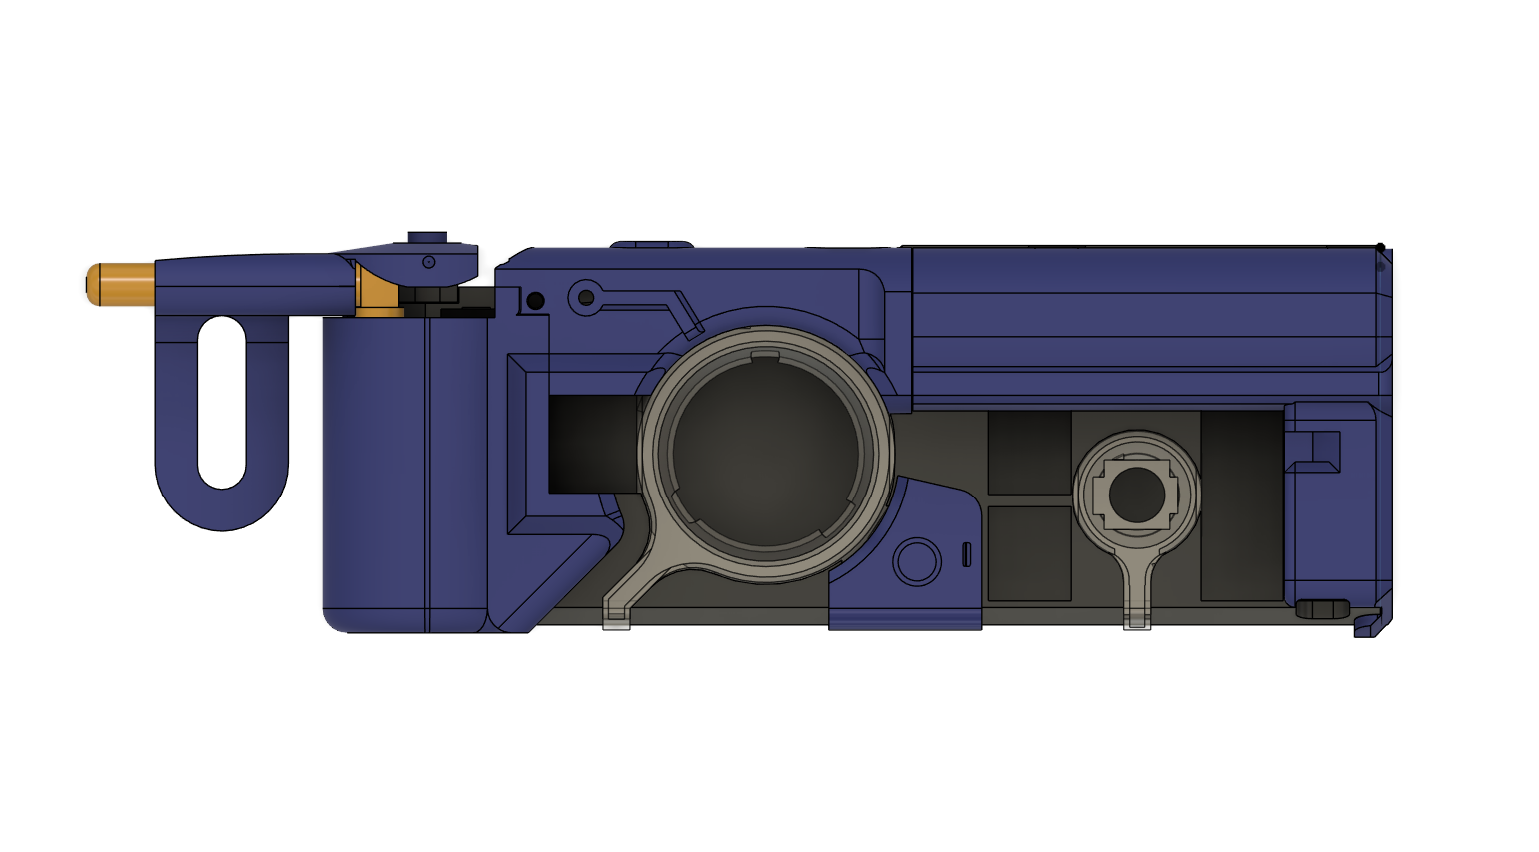
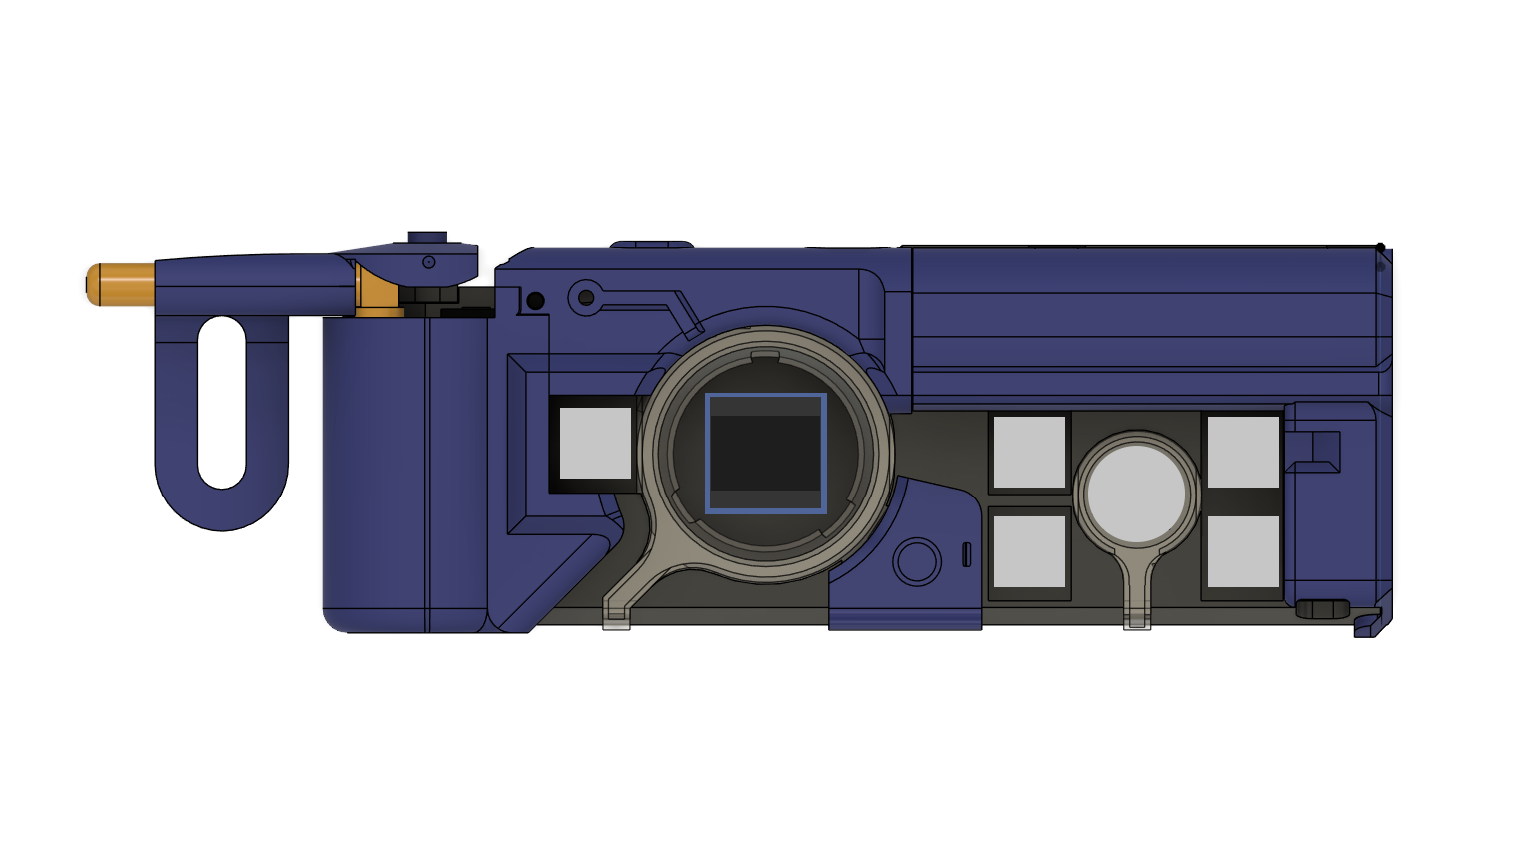
V2 beacon done

Changed region(s): [[0.6238, 0.4883, 0.8421, 0.7019], [0.3431, 0.4577, 0.5614, 0.6103]]

diff --git a/projects/beacon_V2.html b/projects/beacon_V2.html
@@ -85,15 +85,18 @@
 							<h2>Background</h2>
 						</header>
 						<div class="content">
-							<p> Camping, hiking, and other outdoor events often take place in areas with weak cell signal. Explorers could benefit from a <strong>communication device</strong> that uses an independent channel to operate without external infrastructure. The device should enable <strong>peer-to-peer communication</strong>, wayfinding, and emergency messaging. In addition, users who receive a message should be able to navigate to the sender, allowing people to find eachother in the wilderness.</p>
-							<span class="image main"><img src="images/beacon/V1_designoverview.png" alt="" /></span>
+							<p> Last year, I built and user tested an off-grid communicator for outdoor situations without cell service. Overall, the tests of the device looked promising. However, the test also identified some areas for improvement. </p>
+							<p>It is time to design <strong>Version 2</strong> of the Celestial Navigator.</p>
+							<p> <small> (Hint: click on the thumbnails to view the full image) </small>  </p>
+
+							<span class="image main"><img src="images/beacon/CAD_beacon_V2_overview.png" alt="" /></span>
 						</div>
 					</section>
 
 				<!-- Section first steps-->
 					<section>
 						<header>
-							<h2>Hardware Design</h2>
+							<h2>Hardware Design Changes</h2>
 						</header>
 						<div class="content">
 							<p>The design of this off-grid communicator involved balancing factors across <strong>several disciplines of engineering</strong>. The 3D printed case needed to be robust and easily manufacturable. The electronic hardware required a custom PCB to connect from the myriad of IO devices, in a small and portable form-factor. The industrial design should be intuitive for new users, and should't require much explaining or manual-reading.   </p>
@@ -102,40 +105,40 @@
 								<section>
 									<header>
 										<h3>Electronics Design</h3>
-										<p class="gold"> The electrical hardware design comprises a mainboard that connects breakout boards, switches, and indicators to an Espressif ESP-32 microcontroller. The board also includes a battery charger and a DC-DC converter.</p>
+										<p class="gold"> The electrical hardware design has much in common with Version 1. The biggest changes include integrating compass, accellerometer, and GPS sensors in the PCB design rather than using external breakout boards. This allows for a thinner, more robust, and more manufacturable design. The soft power switch from Version 1 was also eliminated for simplicity, cost, and ease of use.</p>
 										
-										<p class="gold"> The first schematic contains the ESP 32 and support circuitry. I used a tag-connect TC-2030 for the serial port. The USB C port is only used for charging. As the original ESP32 lacks native USB support, omitting USB serial saves a USB-UART bridge chip, reducing production costs. Finally, a magnetic buzzer provides an indication that a message has been received.</p>
+										<p class="gold"> The first schematic contains the ESP 32 and support circuitry. The second schematic shows the user input components: the switches and knob. Almost nothing about these sheets changed from version 1.</p>
 										
-										<p class="gold"> The second schematic shows the UI components, consisting of 5x Cherry MX mechanical keyswitches, one quadrature encoder, and supporting components. The ENTER button requires a pull-up resistor because the ESP32's IO34 pin lacks a built-in pull-up.</p>
+										<p class="gold"> The third schematic contains the indication LEDs. The main change was the addition of side-firing LEDs for the flashlight. Version 1 had a flashlight, but it wasn't very effective due to using up-firing LEDs with a makeshift reflector.</p>
 
-										<p class="gold"> The third schematic contains the indication LEDs. 30 WS2812B-compatible LEDs provide feedback to the user. Most of these are arranged in a ring around the screen, forming a digital compass. This allows the compass to point in any direction, allowing the user to navigate to the source of a message.</p>
+										<p class="gold"> The fourth schematic sheet contains the sensors and RF components. External breakout boards have been eliminated and all sensors are now integrated on the Navigator's PCB.</p>
 
-										<p class="gold"> The fourth schematic describes the module and sensor connections of the device. These include a magnetometer (compass), a GPS receiver, a 128x32 pixel OLED screen, and a SX-1276-based LoRa modem. </p>
-
-										<p class="gold"> The final schematic contains the power management circuitry. A TI TPS61088-based boost converter steps the 3.7V lithium battery voltage to the 5V required by the WS2812B LEDs. A pair of P-FETs act as an ideal diode to allow the system to swap between 5V USB power and the onboard battery.</p>
+										<p class="gold"> The final schematic contains the power management circuitry. The TI TPS61088-based boost converter is still present. A TI BQ29700-based battery protection circuit is implemented to avoid overdischarging the lithium battery. Version 1 had a soft power button and software-controlled battery management, so it could shut itself down if the battery voltage dropped too low. Since Version 2 eliminates the soft power button for simplicity, a hardware solution for battery protection was needed.</p>
 									</header>
 									<div class="content">
 										<div class="gallery">
-											<a id="dynamicProjectImage" href="images/beacon/Beacon_ESP32.png" class="landscape" ><img src="images/beacon/Beacon_ESP32.png" alt="" /></a>
-											<a id="dynamicProjectImage" href="images/beacon/Beacon_Digital_IO.png" class="landscape" ><img src="images/beacon/Beacon_Digital_IO.png" alt="" /></a>
-											<a id="dynamicProjectImage" href="images/beacon/Beacon_LEDs.png" class="landscape" ><img src="images/beacon/Beacon_LEDs.png" alt="" /></a>
-											<a id="dynamicProjectImage" href="images/beacon/Beacon_Modules.png" class="landscape"><img src="images/beacon/Beacon_Modules.png" alt="" /></a>
-											<a id="dynamicProjectImage" href="images/beacon/Beacon_Power_Core.png" class="landscape" ><img src="images/beacon/Beacon_Power_Core.png" alt="" /></a>										</div>
+											<a id="dynamicProjectImage" href="images/beacon/BeaconV2_ESP32.png" class="landscape" ><img src="images/beacon/BeaconV2_ESP32.png" alt="" /></a>
+											<a id="dynamicProjectImage" href="images/beacon/BeaconV2_Digital_IO.png" class="landscape" ><img src="images/beacon/BeaconV2_Digital_IO.png" alt="" /></a>
+											<a id="dynamicProjectImage" href="images/beacon/BeaconV2_LEDs.png" class="landscape" ><img src="images/beacon/BeaconV2_LEDs.png" alt="" /></a>
+											<a id="dynamicProjectImage" href="images/beacon/BeaconV2_Modules.png" class="landscape"><img src="images/beacon/BeaconV2_Modules.png" alt="" /></a>
+											<a id="dynamicProjectImage" href="images/beacon/BeaconV2_Power_Core.png" class="landscape" ><img src="images/beacon/BeaconV2_Power_Core.png" alt="" /></a>										</div>
 									</div>
 								</section>
 								<!-- Section -->
 								<section>
 									<header>
-										<h3>Board Layout</h3>
-										<p class="gold">The PCB's shape was chosen to be approximately rectangular with a cutout in the top right where the lithium battery would be installed. To save on development time for this first prototype, several breakout boards were used for sensors in this project. </p>
+										<h3>Board Design</h3>
+										<p class="gold">The PCB layout is similar to version 1's layout. Major changes include the 18650 battery mount. V2 has a battery holder that enables hotswapping batteries, where V1's battery was soldered in place. V2 also incorporates a physical power switch, a battery protection circuit, and a soldered-down GPS module.  </p>
 										
-										<p class="gold">The top of the PCB hosts the ESP32 microcontroller, a level shifter IC, OLED screen breakout, battery charging circuit, DC-DC converter, and all SMT components. The SMT components in this board were populated by JLCPCB's assembly service.</p> 
+										<p class="gold">The only component that is still implemented as a breakout board is the OLED screen, which has doubled in size from V1, measuring 128x64 pixels (MID). There also is an option for a 128x128 pixel OLED (BIG). </p> 
 										
-										<p class="gold">On the bottom of the PCBA, breakout boards for the compass IC, GPS receiver, and LoRa modem can be found. Having breakout boards connected via 2.54mm headers on both sides of the PCBA made the entire assembly approximately 15mm thick.</p> 
+										<p class="gold">Like version 1, this is a 4 layer board. The top mostly has traces running left-to-right, and the bottom mostly top-to-bottom. This project has been very helpful for leveling up my PCB design skills, and the resulting PCB is much cleaner than Version 1's board.</p> 
 									</header>
 									<div class="content">
 										<div class="gallery">
-											<a id="dynamicProjectImage" href="images/beacon/V1_PCB_bothsides.png" class="landscape"><img src="images/beacon/V1_PCB_bothsides.png" alt="" /></a>
+											<a id="dynamicProjectImage" href="images/beacon/V2_PCB_bothsides.png" class="landscape"><img src="images/beacon/V2_PCB_bothsides.png" alt="" /></a>
+											<a id="dynamicProjectImage" href="images/beacon/V2_PCB_bothsides.png" class="landscape"><img src="images/beacon/V1_PCB_bothsides.png" alt="" /></a>
+
 											
 										</div>
 									</div>
@@ -145,17 +148,17 @@
 								<section>
 									<header>
 										<h3>Mechanical Design</h3>
-										<p class="gold">A clamshell of 3D printed plastic (shown as gray) encased the PCB (the purple form) and provided some internal protection to the PCB and 18650-sized lithium battery (green cylinder).  </p>
+										<p class="gold">V2's physical design shares some commonality with V1. The gray case that fits around the PCBA uses a similar design, and the "shield" pieces printed in an accent color are used again for this project.   </p>
 										
-										<p class="gold">A "shield" printed in an accent color (red in this case) covered the lithium battery, the GPS antenna, and the power switch. This also helped hold the clamshell together. To save assembly costs, a single screw connects the two halves of the "shield" together.  </p>
+										<p class="gold">Where the design starts diverging is the antenna mount. Where V1 used an unconstrained rubber duck antenna, V2 constrains the antenna in a hinged mounting clip. This is designed to keep the antenna upgright using gravity. If the antenna stays upright with respect to the ground, it will perform much better than V1's antenna. </p>
 										
-										<p class="gold">The final design is rather rigid and robust. A translucent ring surrounds the screen bezel, and allows LEDs mounted on the PCB in a compass ring to be viewed through the plastic enclosure. </p>
+										<p class="gold">The version 2 also contains a clip over the programming port, allowing access without dismantling the device and a battery door to enable 18650 battery hot-swapping. </p>
 									</header>
 									<div class="content">
 										<div class="gallery">
-											<a id="dynamicProjectImage" href="images/beacon/CAD_beacon_overview.png" class="landscape"><img src="images/beacon/CAD_beacon_overview.png" alt="" /></a>
+											<a id="dynamicProjectImage" href="images/beacon/CAD_beacon_V2_overview.png" class="landscape"><img src="images/beacon/CAD_beacon_V2_overview.png" alt="" /></a>
 
-											<a id="dynamicProjectImage" href="images/beacon/CAD_beacon_exploded.png" class="landscape"><img src="images/beacon/CAD_beacon_exploded.png" alt="" /></a>
+											<a id="dynamicProjectImage" href="images/beacon/CAD_beacon_V2_exploded.png" class="landscape"><img src="images/beacon/CAD_beacon_V2_exploded.png" alt="" /></a>
 											
 										</div>
 									</div>
@@ -172,10 +175,10 @@
 							<h2>Board Bring-up</h2>
 						</header>
 						<div class="content">
-							<p> <strong>With the hardware designed</strong>, the next step is board bring up. This is an important part of hardware development and involves testing the prototype hardware to ensure it functions as intended. </p>
+							<p> Board bring-up was extremely fast on this iteration, as it shared much of its design with the already <strong>battle-tested version 1</strong>. </p>
 																					
-							<p> <small> (Hint: click on the thumbnails to view the full image) </small>  </p>
-							<!-- Section -->
+							
+							<!-- Section 
 								<section>
 									<header>
 										<h3>Bring-up</h3>
@@ -194,7 +197,7 @@
 
 										</div>
 									</div>
-								</section>
+								</section>-->
 
 					
 
@@ -208,39 +211,38 @@
 							<h2>Prototype Run and User Testing</h2>
 						</header>
 						<div class="content">
-							<p>The hardware is working, but now the product itself must be <strong>tested with actual users</strong>. 30 Celestial Navigator prototypes, consisting of functional PCBAs and 3D printed enclosures, were manufactured.</p>
+							<p>Once again, the project must be <strong>tested with actual users</strong>. 30 Celestial Navigator V2 prototypes, consisting of functional PCBAs and 3D printed enclosures, were manufactured.</p>
 
-							<p>All 3D printing, through-hole soldering, and final assembly was done in-house.</p>
+							<p>The V1 Celestial Navigators from last test were also deployed. Prototyping is expensive, it would be a shame to not reuse the old devices.</p>
+
+							<p>All 3D printing, through-hole soldering, and final assembly was done in-house. </p>
 							<!-- Section -->
 								<section>
 									<header>
 										<h3>User Testing</h3>
-										<p class="gold">The Celestial Navigator has cyberpunk styling and a robust 3D-printed case. The first image in this section is an actual picture of one of the 30 prototypes used in user testing.</p>
+										<p class="gold">The Celestial Navigator V2 continues the pattern of cyberpunk-inspired industrial design. The first picture shows one of the 30 prototypes used in user testing, sending an SOS message. Luckily, nobody in testing needed this feature!</p>
 
-										<p class="gold">The 30 prototypes were deployed at a camping event. Users were given a brief crash course on the UI and then released into the wild wielding their communicator. </p>
-										
-										<p class="gold">The event lasted 4 days, and consisted of camping, hiking, and climbing. Weather included rain and shine, and temperatures ranging from 40F to 80F. Most people walked between 2 and 10 miles per day, and had the Celestial Navigator on for 8 hours each day.</p>
-										
-										<p class="gold">Multiple mounting options were provided, from wrist mount to caribiner clip. Most users opted for the caribiner clip, hanging the device from a backpack strap. In use, the user could rotate the device up to view the screen. </p>
-										
-										<p class="gold">Users praised the UI and tactile experience of using the Navigator, as well as the LED indication and functionality. </p>
-										
-										<p class="gold">The number one problem identified was the Antenna. The rubber duck antenna we used was adjustable, and was free to rotate as the user walked. A monopole antenna radiates in a toroidal pattern, with the peak radiation perpendicular to the axis of the antenna. This means that if our antenna is jostled into an orientation that is not perpendicular to the ground, it won't be as effective. </p>
+										<p class="gold">The 30 prototypes were deployed at a camping event. Users were again given a brief crash course on the UI and then released into the wild wielding their communicator. The simplicity of the interface meant that people who used the device last year didn't need a refresher. </p>
+																				
+										<p class="gold">The caribiner clip was pushed as the dominant attachment method, as it enables the antenna to be properly positioned. At the event, I noticed that the antenna clip had the desired effect. Antennas of Navigators remained pointed at the sky, the optimal pointing for a monopole rubber duck. Subjective range appeared vastly greater than the V1 test. </p>
+																				
+										<p class="gold">The number one problem identified was once again the Antenna. Though the caribiner clip worked, the rotating antenna added significant mechanical complexity and failure points. Some of the SMA cables came undone due to vibration. The design was also more difficult to assemble than I'd like. </p>
 
-										<p class="gold">Overall, the Celestial Navigator performed very well on the first test run. No devices failed during operation, and users were pleased with the functionality. Still, I believed we could do better, and immediately started working on <strong class = "gold"><a class="gold" href="beacon_V2.html"> Version 2 of the Celestial Navigator</a></strong></strong>.</p>
+										<p class="gold">Version 2 of the Navigator worked even better than Version 1, but I am apparently never satisfied with my projects, so it is time for <strong class = "gold"><a class="gold" href="beacon_V3.html"> Version 3 of the Celestial Navigator</a></strong></strong>!</p>
 
 									</header>
 									<div class="content">
 										<div class="gallery">
-											<a id="dynamicProjectImage" href="images/beacon/beacon_assembled.jpg" class="landscape"><img src="images/beacon/beacon_assembled.jpg" alt="" /></a>
-											<a id="dynamicProjectImage" href="images/beacon/beacon_worn_on_backpack.png" class="landscape"><img src="images/beacon/beacon_worn_on_backpack.png" alt="" /></a>
+											<a id="dynamicProjectImage" href="images/beacon/beacon_V2_SOS.png" class="landscape"><img src="images/beacon/beacon_V2_SOS.png" alt="" /></a>
+											<a id="dynamicProjectImage" href="images/beacon/Beacon_V2_dooropen.png" class="landscape"><img src="images/beacon/Beacon_V2_dooropen.png" alt="" /></a>
 											<a id="dynamicProjectImage" href="images/beacon/radiation_pattern_monopole.png" class="landscape"><img src="images/beacon/radiation_pattern_monopole.png" alt="" /></a>
+											<a id="dynamicProjectImage" href="images/beacon/beaconV2_worn_on_backpack.png" class="landscape"><img src="images/beacon/beaconV2_worn_on_backpack.png" alt="" /></a>
 
-											<a id="dynamicProjectImage" >
+										<!-- 	<a id="dynamicProjectImage" >
 												<video id="dynamicProjectImage" width="1000" height="500" controls>
 													<source src = "images/beacon/beacon_v1_whitebg.mp4" type="video/mp4">
 												</video>
-											</a>
+											</a> -->
 										</div>
 									</div>
 								</section>

diff --git a/projects/beacon_V1.html b/projects/beacon_V1.html
@@ -86,6 +86,8 @@
 						</header>
 						<div class="content">
 							<p> Camping, hiking, and other outdoor events often take place in areas with weak cell signal. Explorers could benefit from a <strong>communication device</strong> that uses an independent channel to operate without external infrastructure. The device should enable <strong>peer-to-peer communication</strong>, wayfinding, and emergency messaging. In addition, users who receive a message should be able to navigate to the sender, allowing people to find eachother in the wilderness.</p>
+							<p> <small> (Hint: click on the thumbnails to view the full image) </small>  </p>
+
 							<span class="image main"><img src="images/beacon/V1_designoverview.png" alt="" /></span>
 						</div>
 					</section>
@@ -106,7 +108,7 @@
 										
 										<p class="gold"> The first schematic contains the ESP 32 and support circuitry. I used a tag-connect TC-2030 for the serial port. The USB C port is only used for charging. As the original ESP32 lacks native USB support, omitting USB serial saves a USB-UART bridge chip, reducing production costs. Finally, a magnetic buzzer provides an indication that a message has been received.</p>
 										
-										<p class="gold"> The second schematic shows the UI components, consisting of 5x Cherry MX mechanical keyswitches, one quadrature encoder, and supporting components. The ENTER button requires a pull-up resistor because the ESP32's IO34 pin lacks a built-in pull-up.</p>
+										<p class="gold"> The second schematic shows the user input components, consisting of 5x Cherry MX mechanical keyswitches, one quadrature encoder, and supporting components. The ENTER button requires a pull-up resistor because the ESP32's IO34 pin lacks a built-in pull-up.</p>
 
 										<p class="gold"> The third schematic contains the indication LEDs. 30 WS2812B-compatible LEDs provide feedback to the user. Most of these are arranged in a ring around the screen, forming a digital compass. This allows the compass to point in any direction, allowing the user to navigate to the source of a message.</p>
 
@@ -126,8 +128,8 @@
 								<!-- Section -->
 								<section>
 									<header>
-										<h3>Board Layout</h3>
-										<p class="gold">The PCB's shape was chosen to be approximately rectangular with a cutout in the top right where the lithium battery would be installed. To save on development time for this first prototype, several breakout boards were used for sensors in this project. </p>
+										<h3>Board Design</h3>
+										<p class="gold">The PCB's shape was chosen to be approximately rectangular with a cutout in the top right where the lithium battery would be installed. To save on development time for this first prototype, several breakout boards were used for sensors in this project. It is a 4-layer board, to provide a ground plane under RF traces.</p>
 										
 										<p class="gold">The top of the PCB hosts the ESP32 microcontroller, a level shifter IC, OLED screen breakout, battery charging circuit, DC-DC converter, and all SMT components. The SMT components in this board were populated by JLCPCB's assembly service.</p> 
 										
@@ -174,7 +176,6 @@
 						<div class="content">
 							<p> <strong>With the hardware designed</strong>, the next step is board bring up. This is an important part of hardware development and involves testing the prototype hardware to ensure it functions as intended. </p>
 																					
-							<p> <small> (Hint: click on the thumbnails to view the full image) </small>  </p>
 							<!-- Section -->
 								<section>
 									<header>